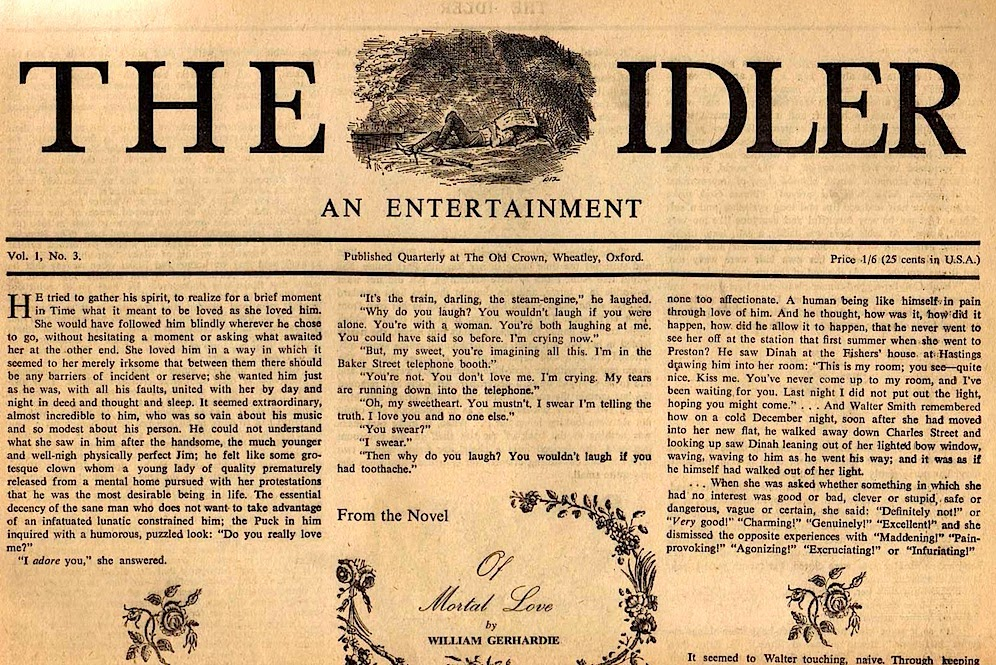
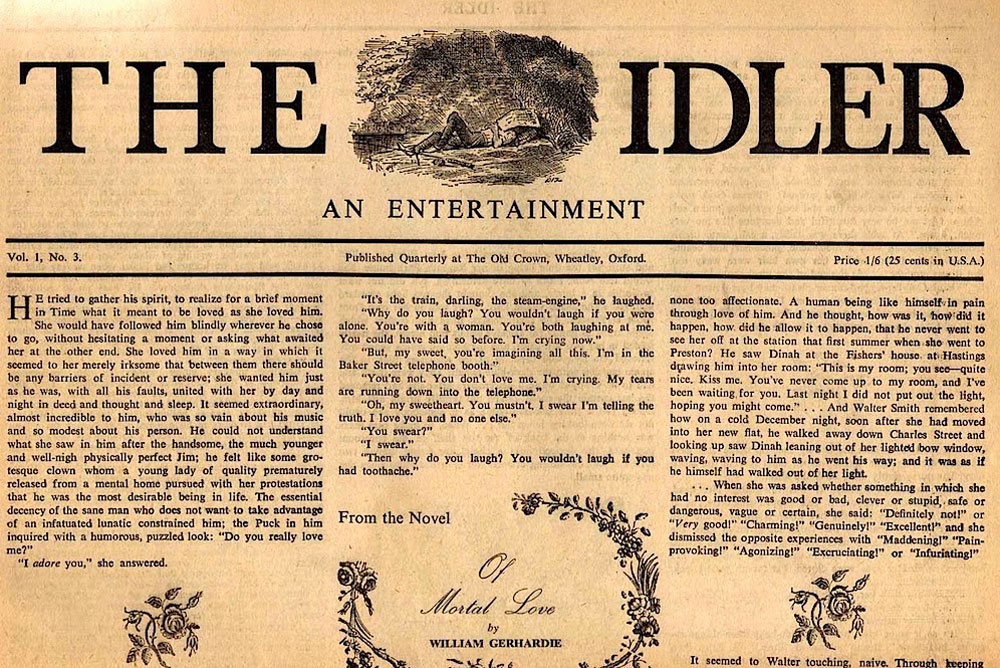
optimised images

diff --git a/content/posts/2014-05-06---advertisements.md b/content/posts/2014-05-06---advertisements.md
@@ -12,3 +12,5 @@ description: "One very particular definition of the term."
 
 > Advertisements are now so numerous that they are very negligently perused.”  
 Samuel Johnson, *The Idler*, 1759 ([source](http://www.warc.com/Pages/NewsAndOpinion/Quotebank.aspx?Category=Advertising))
+
+![](/media/advertisements-1.jpg)
